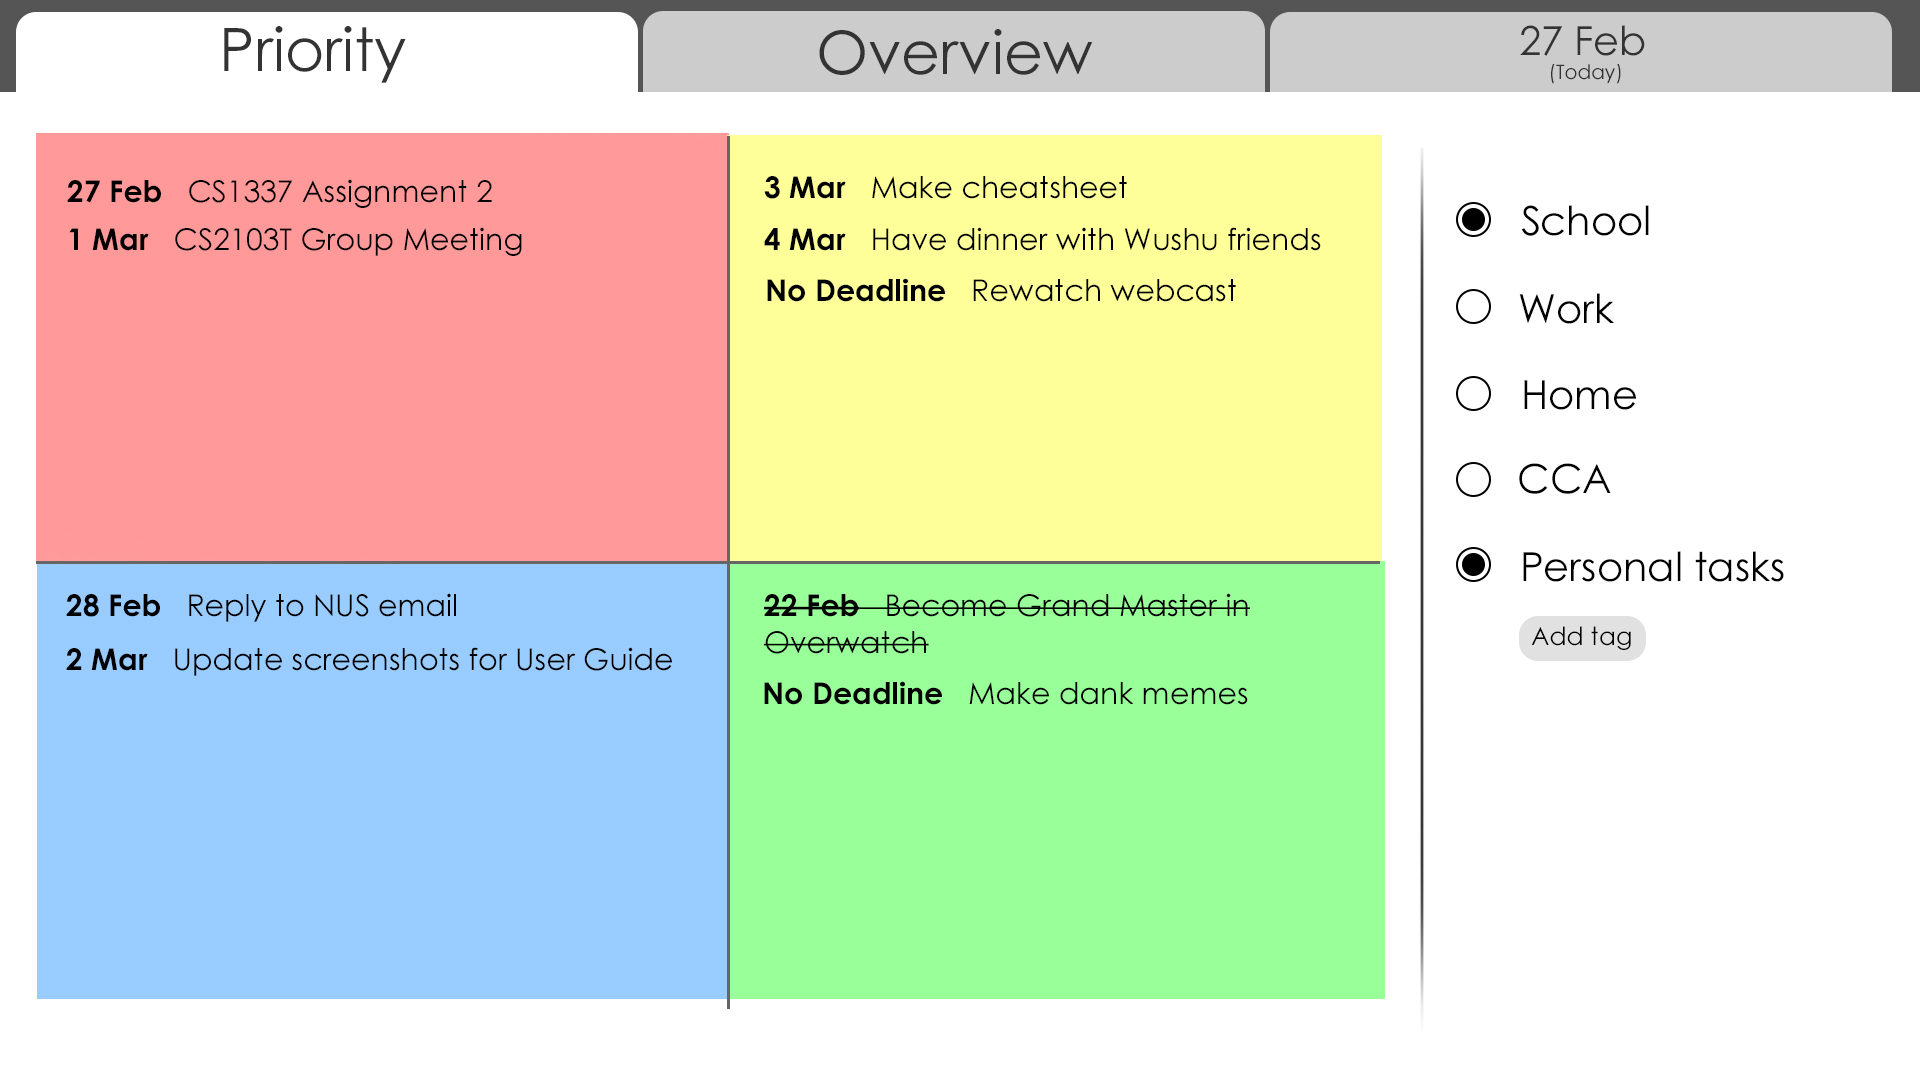
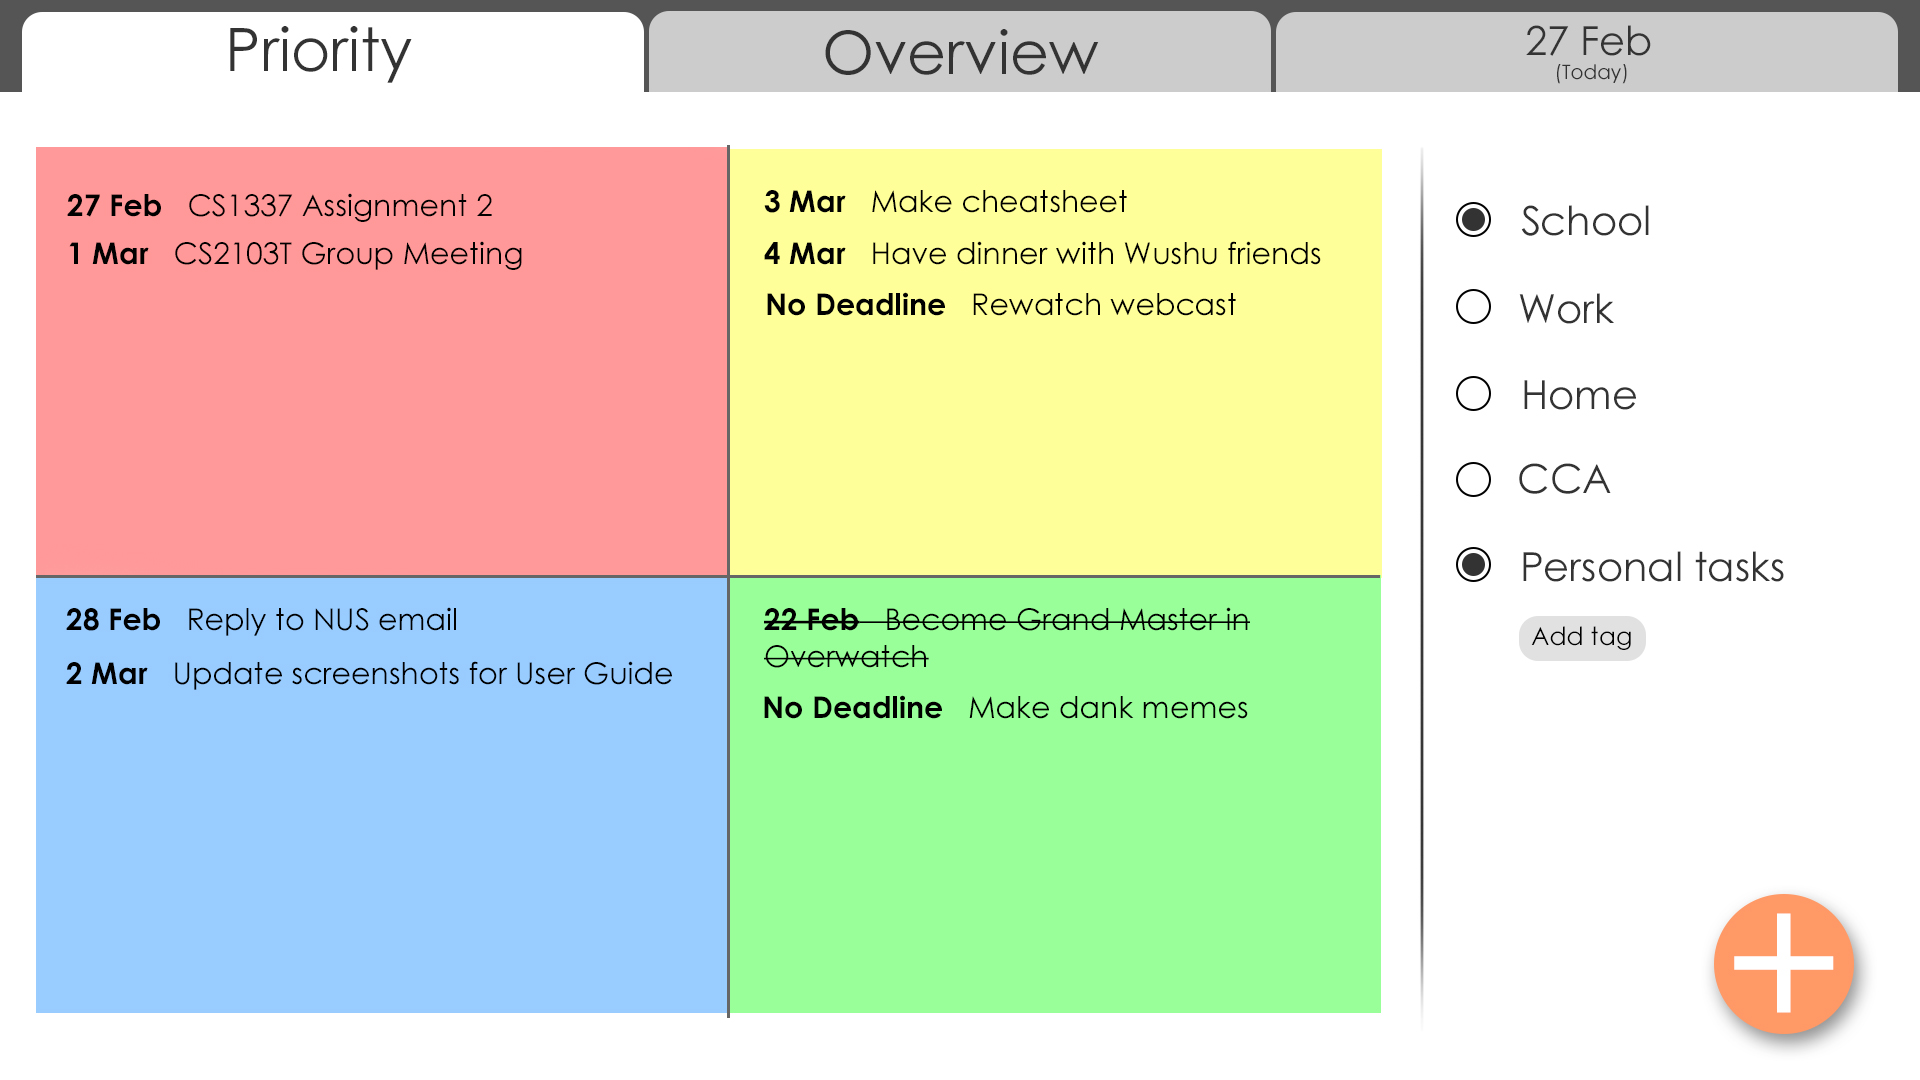
Update User Guide with screenshots

diff --git a/docs/UserGuideV0.0.md b/docs/UserGuideV0.0.md
@@ -17,9 +17,11 @@ By : `Miao Ling` , `Ian` , `Qi Xiang` and `Dylan` - `[W09-B4]` Since : `Feb 2017
 2. Copy the file to the folder you want to use as the home folder for your task manager.
 
 3. Double-click on the file to start the application. The GUI should appear in a few seconds.<br>
-   > <img src="images/Priority_screen.jpg" width="600">
+   > <img src="images/startup_screen.jpg" width="600">
 
-4. Adding your first task: Click on the + floating button at the bottom right of the application the application. A pop out box will appear on your GUI.
+4. Adding your first task: Click on the + floating button at the bottom right of the application the application. A pop out box will appear on your GUI.<br>
+   > <img src="images/addtask_screen.jpg" width="600">
+
 
 5. After step 6, you can view your task in 3 different tabs.
 
@@ -34,6 +36,7 @@ By : `Miao Ling` , `Ian` , `Qi Xiang` and `Dylan` - `[W09-B4]` Since : `Feb 2017
    > **Priority**
    >
    > * Shows you 4 options of priority tabs, from highest to lowest. Selecting the tab allows you to view the list of tasks that is under that priority. Eg. By clicking on “Highest Priority” tab, it will bring you to the list of tasks that you have in it.
+   > <img src="images/priority_screen.jpg" width="600">
 
 ## 2. Features
 
